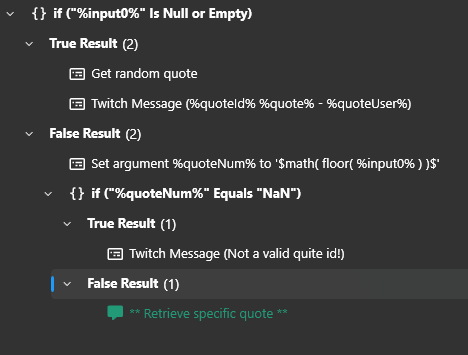
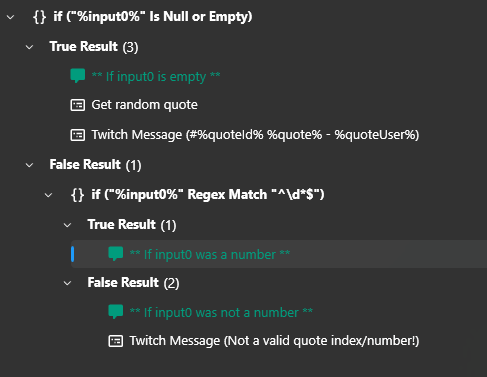
Add Quote Delete Action to Quote Example, Minor adjustements to Installation, GiftBomb, If/else FAQ (#361)

diff --git a/streamerbot/1.get-started/5.examples/quotes-commands.md b/streamerbot/1.get-started/5.examples/quotes-commands.md
@@ -12,11 +12,16 @@ This is only for Streamer.bot v1.0.0 and above!
 ::
 
 In Streamer.bot v1.0.0+, the built-in quote command "!quote" has been removed. This allows for more customization and flexibility in how quotes are retrieved and displayed. With that the "Show Quote" trigger will also not work anymore.
-The following example shows how to create your own "!quote" command to either retrieve a random quote or a specific quote by its index. 
+The following example shows how to:
 
-An import is provided at the end of the instructions, which includes a "!quote" and "!quoteadd" command.
+- Create your own "!quote" command to either retrieve a random quote or a specific quote by its index.
+- Create a "!quoteadd" command to add a quote by the input of a command.
+- Create a "!quotedel" command to delete a quote by a quote index.
 
-The instructions below will guide you through the process of creating a quote command that can retrieve quotes, and add new quotes.
+An import is provided at the end of the instructions, which includes a "!quote","!quoteadd" and "!quotedel" command.
+Additionally the import also includes an example of how one can add a quote by directly replying to a message on Twitch and using the message you replied to as the quote itself and also the user will be linked to the quote.
+
+The instructions below will guide you through the process of creating a quote command that can retrieve quotes, add new quotes and delete quotes.
 Keep in mind this is just an example, and you can customize the sub-actions to your liking. The following sub-actions will be used to retrieve a random quote or a specific quote by its index. It will also be checked whether or not a command input is a number or not via inline math.
 
 ## Instructions (Get Quote)
@@ -37,7 +42,7 @@ Keep in mind this is just an example, and you can customize the sub-actions to y
 
     ![Add Quote Command](assets/quote-command-get-quote.png)
 
-3. Check whether input is  empty or not
+3. Check whether input is empty or not
     First we want to check whether the input, in our case the argument `input0` is empty or not. If it is empty, we will retrieve a random quote, otherwise we will try to retrieve a specific quote by the input.
     To do this, we will use an the sub-action `Core -> Logic > If/Else`.
 
@@ -45,7 +50,9 @@ Keep in mind this is just an example, and you can customize the sub-actions to y
     - The Operation would be `Is Null or Empty`.
 
     After clicking `OK`, you will see a new If/Else block in your action. In the `True` group, we will retrieve a random quote, and in the `False` group we will try to retrieve a specific quote by its index.
+
     ![Check if empty](assets/quote-if-empty.png)
+
 4. Get a random quote and send the message
 
     In the `True` group of the If/Else block, we will retrieve a random quote.
@@ -64,28 +71,24 @@ Keep in mind this is just an example, and you can customize the sub-actions to y
     However first we want to check whether the input is a number or not, this would still be in the `False` group. 
     
     This can be done the following way:
-    1. Add a sub-action Core -> Arguments -> Set Argument.
-        - Variable Name: `quoteNum`
-        - Value: `$math( floor( %input0% ) )$`
 
-        The math function will round down the input to the nearest whole number. If the value of `input0` is not a number, the value of `quoteNum` will be `NaN` which we can check with another `if/else`.
-        :read-more{to="/guide/variables#math"}
+    1. Add another `If/Else` sub-action to check whether the `input0` value is a number or not.
+        - Input: `%input0%`
+        - Operation: `Regex Match`
+        - Value: `^\d*$`
+    
+    The regex `^\d*$` is basically checking if the entire value of `input0` only consists of digits.
 
-    2. Add another `If/Else` sub-action to check whether the `quoteNum` value is a number or not.
-        - Input: `%quoteNum%`
-        - Operation: `Equals`
-        - Value: `NaN`
+    In the `True` group, we will continue and try to retrieve the specific quote by its index.
 
-    In the `True` group, you can now add another sub-action to send a message to the channel that the input is not a number, or you simply leave it empty.
-
-    In the `False` group, we will continue and try to retrieve the specific quote by its index.
+    In the `False` group, you can now add another sub-action to send a message to the channel that the input is not a number, or you simply leave it empty.
 
     ![Counter Message](assets/quote-check-command-input.png)
 
 6. Get a specific quote and send the message
 
     Since we have already checked that the input is a number, we can now retrieve the specific quote by its index.
-    To do this we want to add the sub-action `Core -> Quotes -> Get Quote`, and as the `Type` we will select `Specific`. The `Quote ID` field will be set to `%quoteNum%`, which will retrieve the value of the `quoteNum` variable we set earlier.
+    To do this we want to add the sub-action `Core -> Quotes -> Get Quote`, and as the `Type` we will select `Specific`. The `Quote ID` field will be set to `%input0%`, which will retrieve the value of the `input0` variable.
     
     :read-more{to="/api/sub-actions/core/quotes/get-quote"}
     
@@ -123,9 +126,21 @@ Keep in mind this is just an example, and you can customize the sub-actions to y
     Give the command a name like "Add Quote" and set the command itself to `!quoteadd`, or anything you like.
     Leave the location to `Start`, this will allow the command to also check an input.
 
+    Potentially set the user group for this command to your Moderators only. Meaning select `Allow`, then put the `Moderator` group as the only one on the right side. (The import has it set to Moderators since adding the !quotedel command update.)
+
     The other settings can be left as is, unless you want to change them. For example, you can set the `Cooldown` to prevent spamming the command.
 
-3. Adding the quote itself
+3. Check if the rawInput of the command is empty or not
+
+    First we want to check whether the rawInput that was given is not just empty, so we don't add empty quotes. 
+    To do this, we will use the sub-action `Core -> Logic -> If/Else`.
+    - Input: `%rawInput%`
+    - Operation: `Is Null or Empty`
+    
+    In the `True` group, we can then add a `Break` sub-action to stop the action from continuing, since the rawInput was empty.
+    We can leave the `False` group empty and basically just continue after the `If/Else`block.
+
+4. Adding the quote itself
 
     Next, we want to add the quote itself. To do this, we will use the sub-action `Core -> Quotes -> Add Quote`.
     
@@ -133,7 +148,7 @@ Keep in mind this is just an example, and you can customize the sub-actions to y
 
     ![Add Quote Sub-Action](assets/quote-add-quote-sub-action.png)
 
-4. Check if the quote was added successfully
+5. Check if the quote was added successfully
 
     After adding the quote, we want to check whether or not the quote was added successfully. This can be done by adding another `If/Else` sub-action.
     - Input: `%success%`
@@ -146,12 +161,68 @@ Keep in mind this is just an example, and you can customize the sub-actions to y
 
     So create a sub-action `Twitch -> Chat -> Send Message to Channel` and write something like `Quote added successfully! ID: %quoteId% - %quote%` in the `Message` field.
 
+## Instructions (Delete Quote)
+  Deleting a quote is similiar to `Get Quote` as we again check if the input is a number and then try to delete by that index/number.
+
+1. Creating an action
+
+    To create a new action head to the **Actions** tab and right-click in the actions section. Select **Add Action** and name it something like "Delete Quote".
+
+2. Adding the "!quotedel" command trigger
+    
+    - Right-click in the **Triggers** section and select `Core -> Commands -> Command Triggered`.
+    If you already have a command like "!quotedel" and want to use that, you can select it from the dropdown menu. If not, you can create a new command by clicking on the `Create Command` button below the dropdown.
+
+    Give the command a name like "Delete Quote" and set the command itself to `!quotedel`, or anything you like.
+    Leave the location to `Start`, this will allow the command to also check an input.
+
+    Potentially set the user group for this command to your Moderators only. Meaning select `Allow`, then put the `Moderator` group as the only one on the right side.
+    The other settings can be left as is, unless you want to change them.
+
+3. Check whether input is empty or not
+    First we want to check whether the input, in our case the argument `input0` is empty or not. If it is empty, we will retrieve a random quote, otherwise we will try to retrieve a specific quote by the input.
+    To do this, we will use an the sub-action `Core -> Logic > If/Else`.
+
+    - In the Input field you would write `%input0%` to get the value of the input0 argument.
+    - The Operation would be `Is Null or Empty`.
+
+    After clicking `OK`, you will see a new If/Else block in your action. In the `True` group, we send a message that there needs to be an number input.
+    
+    In the `False` group we will try to delete a specific quote by its index.
+    
+    ![Check if empty](assets/quote-if-empty.png)
+
+4. Delete Quote
+
+    In the `False` group of the If/Else block, we will try and delete the quote by the value of `input0`.
+
+    Add the sub-action `Core -> Quotes > Delete Quote` and write `%input0%` in the field.
+    We don't need to check whether the value of `input0` is a number or not as the Delete Quote just checks if the input is an existing id and if not it will not be able to delete the id.
+
+    You can add a check like in the `Get Quote` action if you want but not directly necessary.
+    
+
+5. Check whether the quote was actually deleted by the input
+
+    Now we want to check whether a quote was successfully deleted or not. 
+    
+    This can be done the following way:
+
+    1. Add another `If/Else` sub-action to check whether the `success` value is `True`.
+        - Input: `%success%`
+        - Operation: `Equals`
+        - Value: `True`
+
+    In the `True` group, we can then write a message like `Quote with the id %quoteId% was deleted.`
+
+    In the `False` group, we can send a message for when the `%input0%` was not an existing quote id.
+
+    ![Counter Message](assets/quote-del-finished-action.png)
+
 ## Import
 
-As mentioned at the start here is the import for Streamer.bot v1.0.0 and above. This includes the `!quote` and `!quoteadd` commands, and the needed actions.
+As mentioned at the start here is the import for Streamer.bot v1.0.0 and above. This includes the `!quote`, `!quoteadd` and `!quotedel`  commands, and the needed actions. Additionaly an example how to use a Twitch Reply to add a quote, which is not linked to any trigger as it's just an example.
 
 ```bash [streamerbot-import]
[1 lines of base64/hex data omitted]
-
[1 lines of base64/hex data omitted]
 ```
-

diff --git a/streamerbot/1.get-started/_faq/11.if-else-subaction.md b/streamerbot/1.get-started/_faq/11.if-else-subaction.md
@@ -1,7 +1,15 @@
 ---
 description: How do If/Else sub-actions work?
 ---
+Since version 1.0.0 of Streamer.bot the if/else sub-action has changed to be more flexible and also allow you to run singular sub-actions in a True or False Result Group.
 
-Here is a flowchart overview:
+### Input Field
+Pre-1.0.0 this field was called "Variable" as you'd directly write the variable name itself in it, like `userName`.
+Now it's a general input field, so to check the value of `userName` we would write `%userName%` as using %% will give us the value of the action variable.
+You can now also use Inline Functions and ~globalVar~ to check the value of a global persisted variable directly.
 
-![If-Else flowchart](../assets/if-else-flowchart.png)
+### Operation
+This is the same as in pre-1.0.0, so basically the operation of how you want to check the value of the `Input` field, and the value of the `Value` field.
+
+### Auto Type, Operation & Value Field
+More infos found [here](https://docs.streamer.bot/api/sub-actions/core/logic/if-else#parameters)

diff --git a/streamerbot/3.api/2.triggers/twitch/subscriptions/gift-bomb.md b/streamerbot/3.api/2.triggers/twitch/subscriptions/gift-bomb.md
@@ -25,10 +25,6 @@ variables:
     type: number
     description: The total number of subscriptions gifted by the user.
     value: 42
-  - name: gift.cumulativeMonths#
-    type: number
-    description: Cumulative months the user has been subscribed for.<br># is a number starting at 0 til totalGifts - 1
-    value: 1
   - name: gift.recipientUser#
     type: string
     description: Display name of the gifted user<br># is a number starting at 0 til totalGifts - 1
@@ -54,7 +50,7 @@ variables:
     version: 0.2.5
     description: The system message that was put into Twitch Chat.
     value: Here's another gifted sub for your channel!
-  - name: totalSubsGiftedShared
+  - name: totalGiftsShared
     type: boolean
     version: 0.2.5
     description:  A boolean value if the user gifting the sub(s) shares there total gift count.

diff --git a/streamerbot/1.get-started/1.installation.md b/streamerbot/1.get-started/1.installation.md
@@ -68,7 +68,7 @@ Once you have connected to the website, you can change your update release chann
     **Beta** updates are available to **everyone**, by joining the Discord and linking with Streamer.bot
     ::
     ::callout{icon=i-simple-icons-patreon}
-    **Alpha** updates are only available to **Silver Tier** subscribers on [Patreon](https://patreon.com/nate1280){target=_blank}
+    **Alpha** updates are only available to **Bronze Tier** subscribers on [Patreon](https://patreon.com/nate1280){target=_blank}
     ::
 
 
